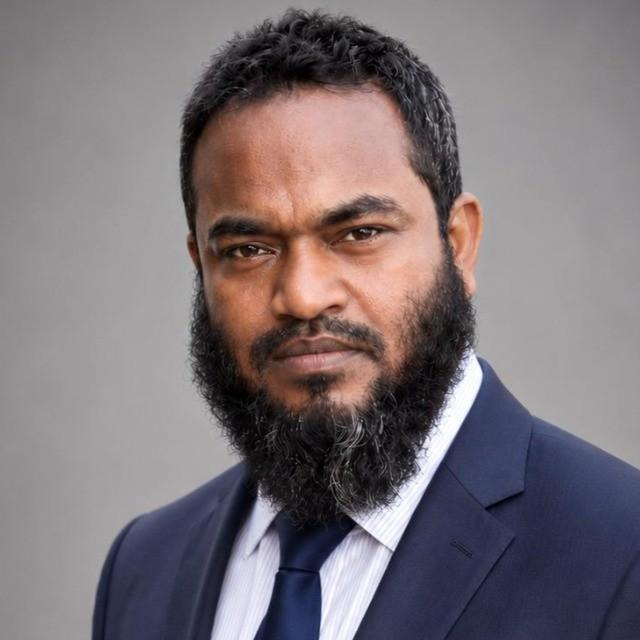
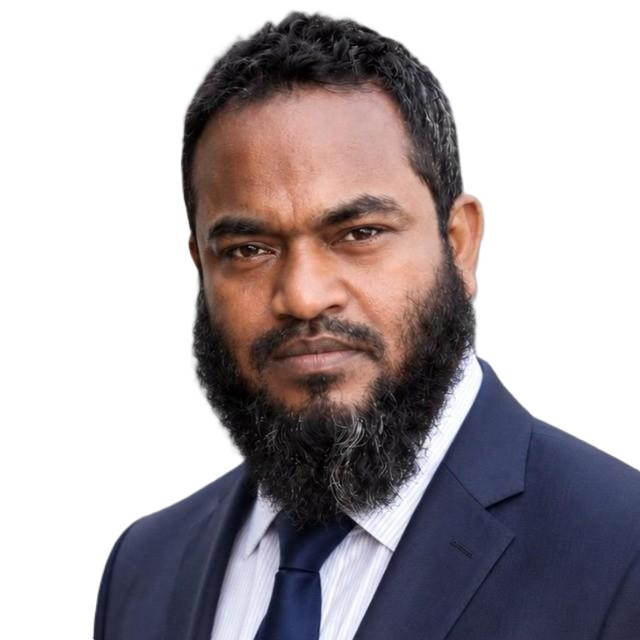
CEO name changed

diff --git a/resources/views/components/⚡about_us.blade.php b/resources/views/components/⚡about_us.blade.php
@@ -164,8 +164,8 @@ new class extends Component
                     <div class="col-12 col-sm-6 col-md-4 col-lg-3 mb-4">
                         <div class="d-flex flex-column align-items-center h-100 text-center p-3">
                             <img class="team-photo mb-3" src="{{asset('img/team/IMG_20210525_141630.jpg')}}">
-                            <p class="mb-0 fw-bold">Mr. Md Fayekuzzaman</p>
-                            <p class="mb-0">Executive Director &amp; Former Chief Executive Officer (CEO)</p>
+                            <p class="mb-0 fw-bold">Mr. S.M. Shakhawat Hossain</p>
+                            <p class="mb-0">Chief Executive Officer (CEO)</p>
                             <a class="badge text-bg-primary btn mt-auto" href="#">Read More</a>
                         </div>
                     </div>
@@ -173,7 +173,7 @@ new class extends Component
                         <div class="d-flex flex-column align-items-center h-100 text-center p-3">
                             <img class="team-photo mb-3" src="{{asset('img/team/nazmul-islam.jpg')}}">
                             <p class="mb-0 fw-bold">Mr. Nazmul Islam</p>
-                            <p class="mb-0">Chief Operating Officer (COO) &amp; CEO (in-charge)</p>
+                            <p class="mb-0">Chief Operating Officer (COO)</p>
                             <a class="badge text-bg-primary btn mt-auto" href="#">Read More</a>
                         </div>
                     </div>
